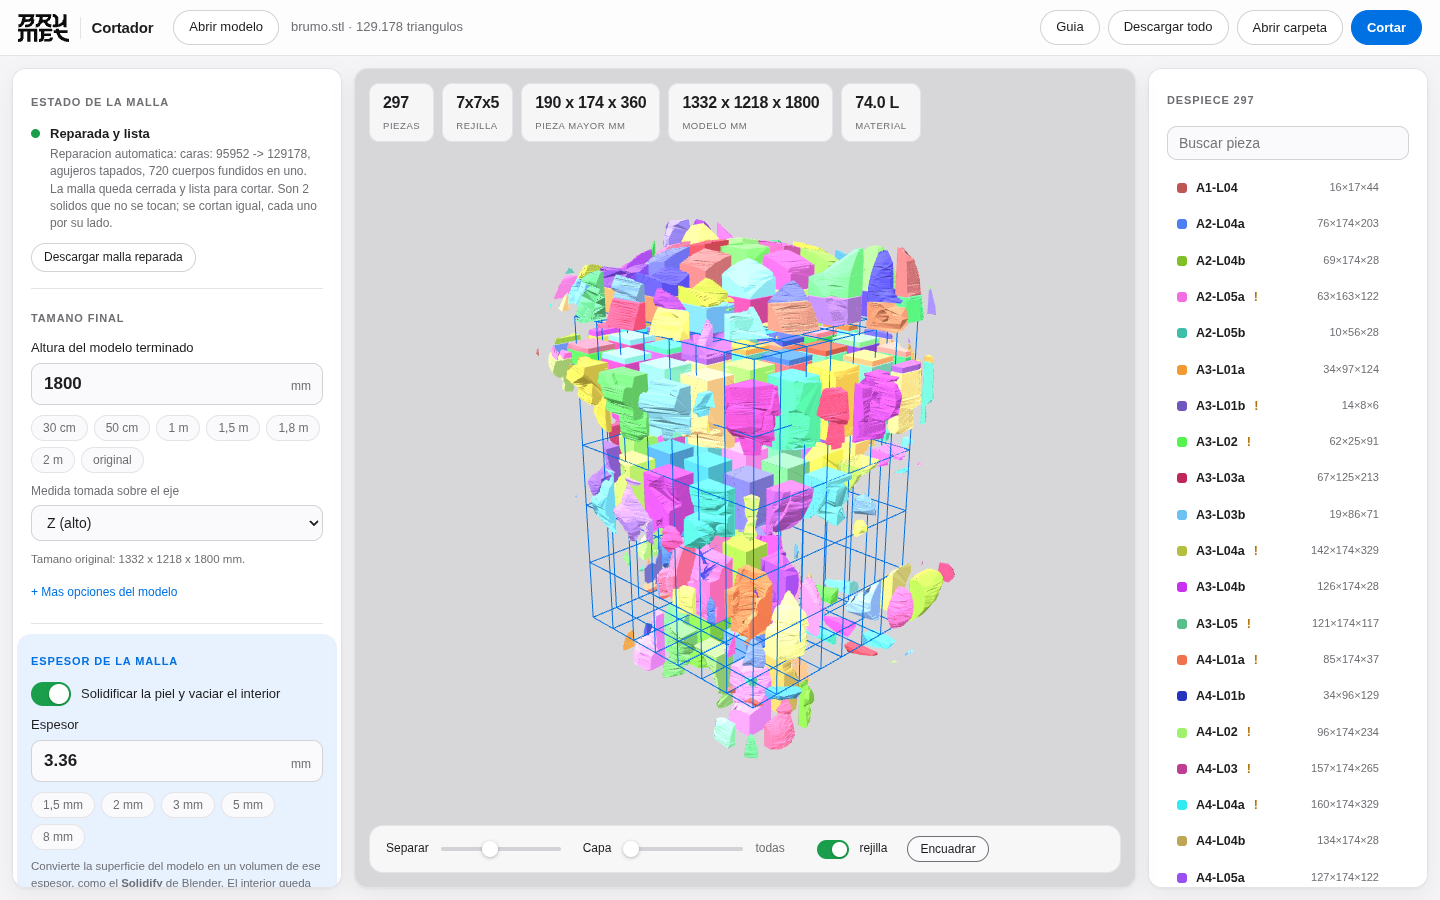
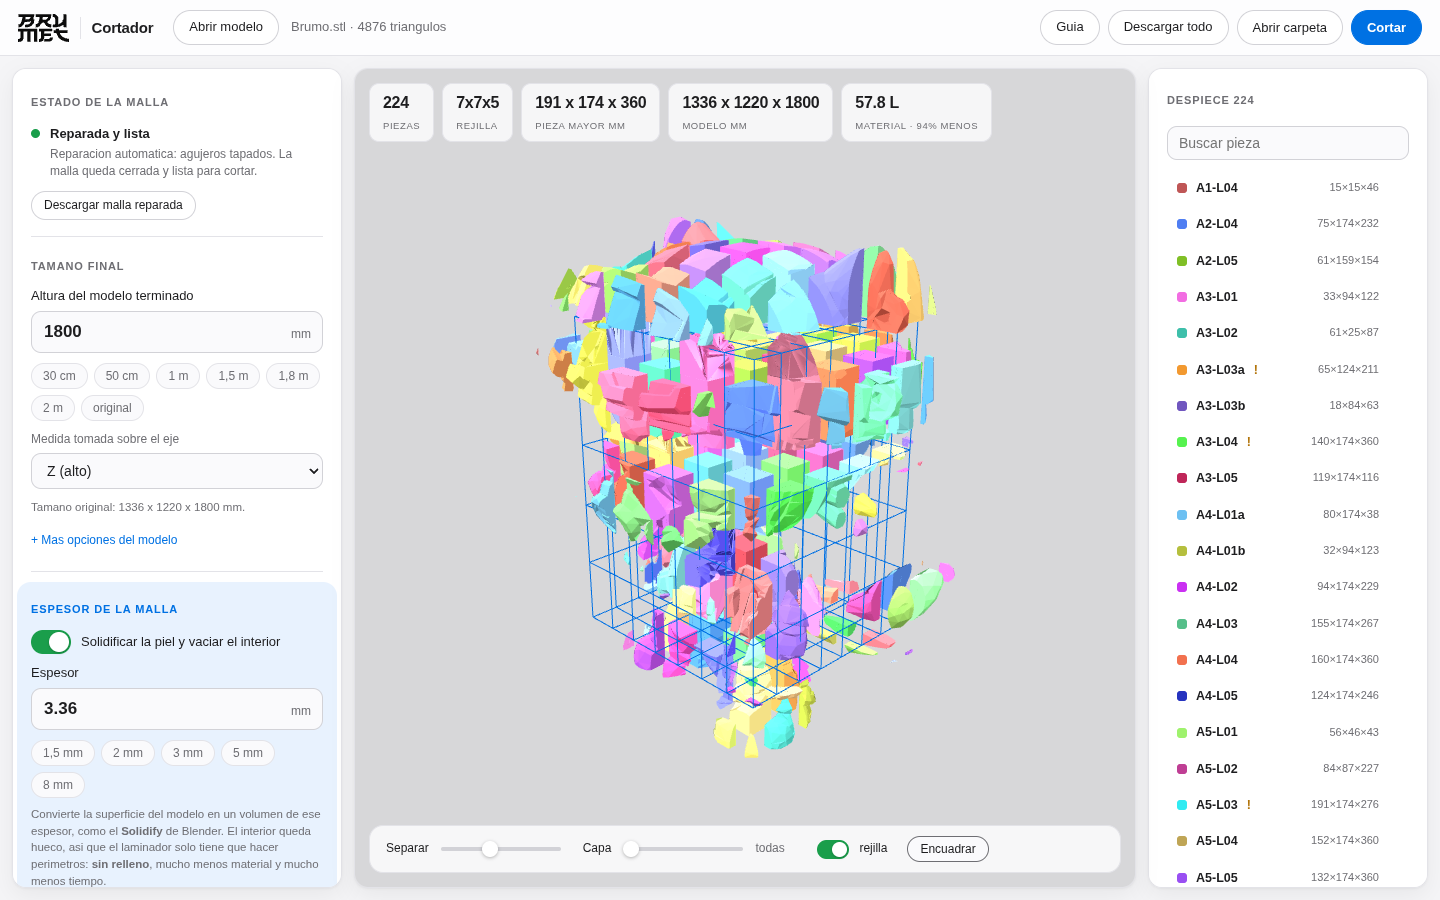
Las capturas del README, ahora con Brumo
Brumo estaba subido al repo pero con el nombre "Brumo .stl" (con espacio) en la
raiz; pasa a examples/modelos/ con un LEEME que explica lo que trae.

Su malla tiene 15 aristas no manifold, asi que Cortador avisa de que sigue
abierta: se corta igual, pero para imprimir conviene cerrarla. Se anade el
modelo ya cerrado, que es el usado para las capturas.

Las capturas se generan manejando la aplicacion de verdad (cargar, elegir la
FLSUN V400, poner 1,80 m, cortar y fotografiar cada momento): 224 piezas en
rejilla 7x7x5, pieza mayor de 191 x 174 x 360 mm y 57,8 litros frente a 901
macizo, un 94 % menos.

Claude-Session: https://claude.ai/code/session_01JgVLBbgaQY1jaN7fB5Dubg

diff --git a/README.md b/README.md
@@ -25,10 +25,10 @@ terminado** y **cuanto mide tu impresora**, y Cortador hace dos cosas:
 2. **Corta el resultado en trozos del tamano de tu impresora**. Siempre. Ninguna
    pieza se sale de la cama.
 
-Con **Brumo** a 1,80 m de alto en una FLSUN V400: de **896 litros macizo a 74**
-(92 % menos de material y de horas de maquina), en 297 piezas que caben todas en
-la cama redonda. Con un gorila del mismo tamano en una Ender 3, de 1.024 litros
-a 22.
+Con **Brumo**, la mascota de Brumet, a 1,80 m de alto en una FLSUN V400: de
+**901 litros macizo a 57,8** (94 % menos de material y de horas de maquina), en
+224 piezas que caben todas en la cama redonda. Con un gorila del mismo tamano en
+una Ender 3, de 1.024 litros a 22.
 
 Cada pieza sale **marcada con su nombre grabado** y, si quieres, con **pasadores
 de alineacion**, para que luego puedas armar el modelo entero sin volverte loco.
@@ -37,9 +37,9 @@ Es una **aplicacion de escritorio**: se abre en su propia ventana, no en el
 navegador. Todo ocurre **en tu equipo**, funciona sin conexion y ningun modelo se
 sube a ningun servidor. Codigo libre con licencia MIT.
 
-![Brumo cortado en 297 piezas](docs/panel.png)
+![Brumo cortado en 224 piezas](docs/panel.png)
 
-<p align="center"><i>Brumo, 1,80 m de alto, en 297 piezas para una FLSUN V400</i></p>
+<p align="center"><i>Brumo, 1,80 m de alto, en 224 piezas para una FLSUN V400</i></p>
 
 <p align="center"><i>La rejilla de corte se dibuja encima del modelo antes de cortar nada</i></p>
 

diff --git a/examples/modelos/LEEME.md b/examples/modelos/LEEME.md
@@ -1,0 +1,16 @@
+# Modelos de ejemplo
+
+- **`brumo.stl`** — Brumo, la mascota de Brumet, tal como la subio su autor.
+  Viene en escala unidad (0,7 x 0,7 x 1 mm): se escala con la altura final que
+  pidas en la app. Tiene **15 aristas no manifold** (aristas compartidas por mas
+  de dos caras), asi que Cortador avisa de que la malla sigue abierta. Se corta
+  igual, pero para imprimir conviene cerrarla antes.
+
+- **`brumo_reparado.stl`** — el mismo modelo ya cerrado. Es el que se uso para
+  las capturas del README: a 1,80 m de alto salen 224 piezas para una FLSUN
+  V400, con 57,8 litros de material frente a 901 macizo.
+
+Para cerrarlo se uso MeshFix, que es AGPL y por eso **no viene dentro de
+Cortador**: meterlo obligaria a cambiar la licencia MIT del proyecto entero. En
+Windows, 3D Builder hace lo mismo con dos clics, y la app tiene el boton que lo
+abre.
